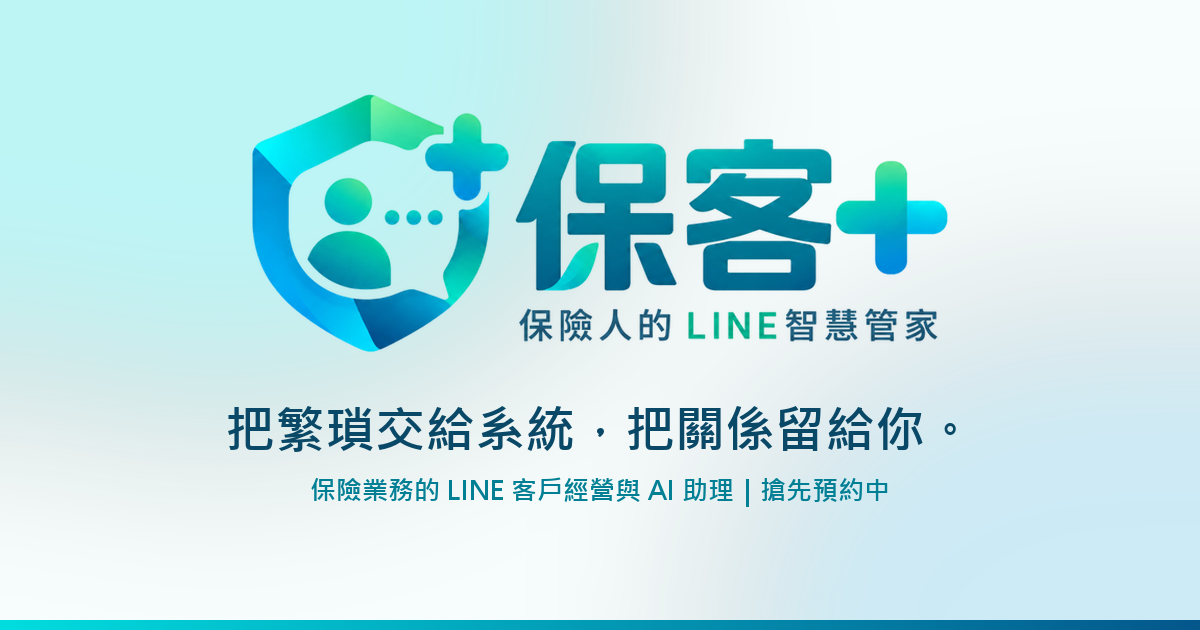
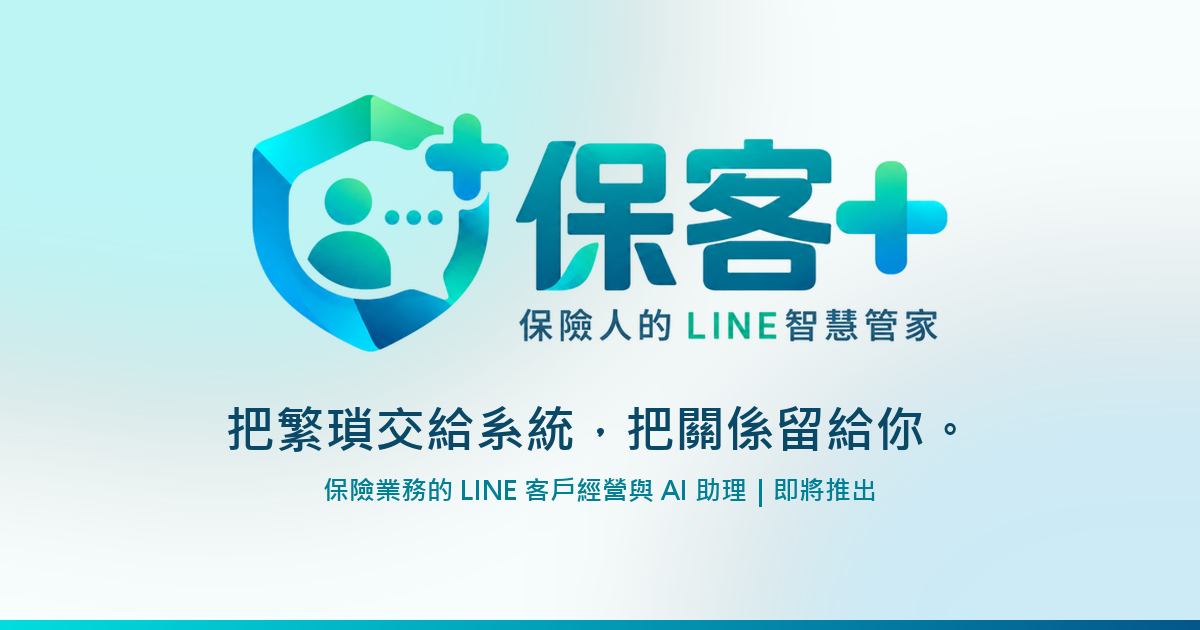
/insurcrm 定案調整：不收錄、正式價格、預約按鈕改為即將開放
- 副標定案「保險人的 LINE 智慧管家」，移除待確認註解
- 先不讓搜尋引擎收錄：metadata 加 robots noindex/nofollow；sitemap 與 pageUpdatedAt 移除 /insurcrm
- NT$900／月為正式價格：拿掉「預計」「以正式上線公告為準」，FAQ 改直述；結構化資料 price 900、PreOrder 不變
- 搶先預約尚未開放：六個原連到 /contact 的按鈕與頁內導覽 CTA 改為不可點的
  ComingSoonCta（span、aria-disabled、虛線框＋時鐘、全頁同一句「搶先預約即將開放」）；
  LINE 詢問與「看完整功能」錨點保留；移除不再使用的 ctaHref／sourceFromPath
- 相關文案（hero 標籤、結尾說明、三步開通第一步、FAQ、分享圖副標）改為「即將推出／即將開放」

Changed region(s): [[0.2467, 0.754, 0.74, 0.8143]]

diff --git a/app/insurcrm/page.tsx b/app/insurcrm/page.tsx
@@ -35,7 +35,6 @@ import {
 import { JsonLd } from '@/components/JsonLd';
 import { pageMeta, absoluteUrl } from '@/lib/seo';
 import { breadcrumbLd, faqPageLd, ORGANIZATION_ID } from '@/lib/jsonld';
-import { ctaHref, sourceFromPath } from '@/lib/site-source';
 import { site } from '@/lib/data/site';
 import { cn } from '@/lib/utils';
 import {
@@ -70,22 +69,29 @@ import { FeatureTabs } from './_components/FeatureTabs';
 import { GreetingDemo } from './_components/GreetingDemo';
 import { PhoneCarousel } from './_components/PhoneCarousel';
 import { Faq } from './_components/Faq';
+import { ComingSoonCta } from './_components/ComingSoonCta';
 import './insurcrm.css';
 
-const DESCRIPTION = `${PRODUCT_NAME}，${PRODUCT_SUBTITLE}。${PRODUCT_TAGLINE}為保險業務、銀行理專與通訊處打造的 LINE 官方帳號客戶經營系統：家庭與保單整理、生日與農曆節日祝福一鍵確認、每日早報與 AI 業務助理，客戶不用下載 App。現正開放搶先預約。`;
+const DESCRIPTION = `${PRODUCT_NAME}，${PRODUCT_SUBTITLE}。${PRODUCT_TAGLINE}為保險業務、銀行理專與通訊處打造的 LINE 官方帳號客戶經營系統：家庭與保單整理、生日與農曆節日祝福一鍵確認、每日早報與 AI 業務助理，客戶不用下載 App。`;
 
-export const metadata: Metadata = pageMeta({
+export const metadata: Metadata = {
+  ...pageMeta({
   path: PAGE_PATH,
   title: `${PRODUCT_NAME}｜${PRODUCT_SUBTITLE}`,
   description: DESCRIPTION,
   // 分享圖：由 logo 原檔以程式合成（淺色底＋logo＋標語），不是全站共用的 og.jpg
   ogImage: OG_IMAGE_PATH,
   keywords: [PRODUCT_NAME, '保險業務 CRM', '保險 LINE 官方帳號', '保險客戶管理', '保單整理', '農曆生日祝福', '理專 客戶管理', 'AI 業務助理', '通訊處 管理系統']
-});
+}),
+  // 產品未上線、預約未開放：先不讓搜尋引擎收錄（也不在 sitemap）。上線時拿掉這一段並把 /insurcrm 加回 app/sitemap.ts
+  robots: { index: false, follow: false }
+};
 
-/** 站內來源標記：src=insurcrm，pos=按鈕位置（見 lib/site-source.ts，刻意不用 utm_*） */
-const SRC = sourceFromPath(PAGE_PATH);
-const cta = (pos: string) => ctaHref('/contact', SRC, pos);
+/*
+ * 搶先預約尚未開放（2026-09-27 Shark）：所有預約按鈕都是不可點的 ComingSoonCta。
+ * 開放時換回連結：ctaHref('/contact', sourceFromPath(PAGE_PATH), '<位置>')（lib/site-source.ts），
+ * 位置沿用 hero / section_nav / differentiators / plan_solo / plan_team / final_cta，名單會帶 src=insurcrm。
+ */
 
 const NAV = [
   { id: 'workflow', label: '一天的節奏' },
@@ -219,7 +225,7 @@ export default function InsurCrmPage() {
                 <span className="icrm-pulse-ring absolute inset-0 rounded-full bg-[#1AC6C8]" aria-hidden />
                 <span className="relative inline-flex h-2 w-2 rounded-full bg-[#1E97A6]" />
               </span>
-              搶先預約中．功能分階段推出
+              即將推出．功能分階段上線
             </span>
             {/* Logo 原檔已含產品名與副標；背景是淺色 hero，去白底後的 PNG 直接放，不會有白框 */}
             <div className="mt-7" data-reveal style={{ '--d': '60ms' } as React.CSSProperties}>
@@ -244,10 +250,7 @@ export default function InsurCrmPage() {
               LINE 裡聽你說話的 AI 業務助理。
             </p>
             <div className="mt-8 flex flex-wrap items-center gap-3" data-reveal style={{ '--d': '280ms' } as React.CSSProperties}>
-              <a href={cta('hero')} className="btn-brand px-7 py-3.5 text-base">
-                申請搶先試用
-                <ArrowRight className="h-4 w-4" aria-hidden />
-              </a>
+              <ComingSoonCta size="lg" />
               <a href="#features" className="btn-outline px-7 py-3.5 text-base">
                 看完整功能
               </a>
@@ -295,8 +298,6 @@ export default function InsurCrmPage() {
 
       <SectionNav
         links={NAV}
-        ctaHref={cta('section_nav')}
-        ctaLabel="搶先試用"
         mark={{ ...LOGO_MARK, alt: PRODUCT_NAME }}
       />
 
@@ -541,10 +542,7 @@ export default function InsurCrmPage() {
             <p className="body-lg mt-5">
               我們從台灣業務的日常出發：客戶不想多裝一個 App，長輩過農曆生日，而每一則訊息都代表你本人。
             </p>
-            <a href={cta('differentiators')} className="btn-brand mt-8">
-              申請搶先試用
-              <ArrowRight className="h-4 w-4" aria-hidden />
-            </a>
+            <ComingSoonCta className="mt-8" />
           </div>
           <div className="grid gap-4 sm:grid-cols-2">
             {differentiators.map((d, k) => {
@@ -649,18 +647,12 @@ export default function InsurCrmPage() {
                     </li>
                   ))}
                 </ul>
-                <a
-                  href={cta(`plan_${p.id}`)}
-                  className={cn('mt-8 w-full', p.highlight ? 'btn-brand' : 'btn-outline')}
-                >
-                  {p.cta}
-                  <ArrowRight className="h-4 w-4" aria-hidden />
-                </a>
+                <ComingSoonCta label={p.cta} className="mt-8 w-full" />
               </div>
             ))}
           </div>
           <p className="mx-auto mt-6 max-w-3xl text-center text-xs leading-relaxed text-ink-500" data-reveal>
-            目前開放搶先預約，不收取任何預約費用。LINE 官方帳號的訊息費用依你的官方帳號方案由 LINE 計收，不含在月費內。
+            搶先預約即將開放。LINE 官方帳號的訊息費用依你的官方帳號方案由 LINE 計收，不含在月費內。
           </p>
         </div>
       </section>
@@ -777,13 +769,10 @@ export default function InsurCrmPage() {
                 {PRODUCT_TAGLINE.split('，')[1]}
               </h2>
               <p className="body-lg mx-auto mt-5 max-w-2xl text-balance text-brand-100">
-                {PRODUCT_NAME}，{PRODUCT_SUBTITLE}，現正開放搶先預約。留下聯絡方式，上線時優先通知你並安排試用。
+                {PRODUCT_NAME}，{PRODUCT_SUBTITLE}。搶先預約即將開放，想先了解可以直接用 LINE 問我們。
               </p>
               <div className="mt-9 flex flex-wrap items-center justify-center gap-3">
-                <a href={cta('final_cta')} className="btn bg-white px-7 py-3.5 text-base text-brand-900 hover:-translate-y-0.5 hover:bg-brand-50">
-                  申請搶先試用
-                  <ArrowRight className="h-4 w-4" aria-hidden />
-                </a>
+                <ComingSoonCta tone="dark" size="lg" />
                 <a href={site.contact.lineUrl} target="_blank" rel="noopener" className="btn-line px-7 py-3.5 text-base">
                   <MessageCircle className="h-4 w-4" aria-hidden />
                   用 LINE 詢問

diff --git a/app/insurcrm/_data/content.ts b/app/insurcrm/_data/content.ts
@@ -9,7 +9,8 @@
  *  - 不寫「保證」「穩賺」「最高」「第一」「唯一」這類絕對用語。
  *  - 不提及、不比較任何同業產品名稱。
  *  - 不暗示提供商品推薦或投資建議；缺口分析只說「規則式、不列商品」。
- *  - 2026-09 時點**所有功能都還沒上線**：每一項都要帶 phase，畫面以「搶先預約」為主，
+ *  - 2026-09 時點**所有功能都還沒上線、搶先預約也還沒開放**：每一項都要帶 phase；預約按鈕一律是
+ *    不可點的「搶先預約即將開放」（_components/ComingSoonCta），開放時把它換回連到 /contact 的連結，
  *    不可以寫成「已經有」。上線一項就把那一項的 phase 改成 'live'，再回頭改 FAQ 與 hero 的說法。
  *  - 功能與界線的來源是 line-crm-saas `docs/specs/insurance-agent-module.md`（§0、§5、§10、§12、§13、§14、§6）。
  */
@@ -17,10 +18,7 @@
 /** 品牌（2026-09-27 Shark 定案）。名稱、副標、標語各一個常數，改一處即全頁、metadata、結構化資料同步 */
 export const PRODUCT_NAME = '保客+';
 export const PRODUCT_SHORT = PRODUCT_NAME;
-/**
- * 副標：與 Logo 上的字一致。Shark 打字時曾寫成「保經人的 LINE智慧管家」，兩者不同，待確認；
- * 確認前以 Logo 為準（Logo 圖檔改不了，文字常數跟著圖走才不會畫面上兩種寫法並存）。
- */
+/** 副標：與 Logo 上的字一致 */
 export const PRODUCT_SUBTITLE = '保險人的 LINE 智慧管家';
 export const PRODUCT_TAGLINE = '把繁瑣交給系統，把關係留給你。';
 /** Logo 素材（由原始 PNG 以程式去白底／裁切，見 public/insurcrm/） */
@@ -29,7 +27,7 @@ export const LOGO_MARK = { src: '/insurcrm/baoke-plus-mark.png', width: 251, hei
 export const OG_IMAGE_PATH = '/insurcrm/og-baoke-plus.png';
 export const PAGE_PATH = '/insurcrm';
 
-/** 個人版月費（預計）。價格定案由 billing-ops 決定，改這裡會同步到方案卡、FAQ 與結構化資料 */
+/** 個人版月費（2026-09-27 Shark 定案為正式價格）。改這裡會同步到方案卡、數字區、FAQ 與結構化資料 */
 export const SOLO_PRICE = 900;
 
 export type Phase = 1 | 2 | 3;
@@ -79,7 +77,7 @@ export const facts: { value: number; prefix?: string; suffix?: string; label: st
   { value: 0, suffix: ' 個', label: '客戶要下載的 App', note: '保單總表、祝福、聯絡業務，都在 LINE 裡完成' },
   { value: 6, suffix: ' 個', label: '農曆節日自動換算', note: '春節、元宵、端午、七夕、中秋、重陽，另支援農曆生日' },
   { value: 3, suffix: ' 種', label: '職業別範本', note: '保險業務、銀行理專、獨立理財顧問各有祝福與提醒範本' },
-  { value: SOLO_PRICE, prefix: 'NT$', label: '個人版每月（預計）', note: '自助線上開通，價格以正式上線公告為準' }
+  { value: SOLO_PRICE, prefix: 'NT$', label: '個人版每月', note: '自助線上開通，一個人就能開始用' }
 ];
 
 /* ── 核心功能分頁 ─────────────────────────────────────── */
@@ -306,9 +304,9 @@ export const plans = [
     name: '個人版',
     audience: '保險業務員、銀行理專、獨立理財顧問本人',
     price: SOLO_PRICE,
-    priceNote: '每月（預計），價格以正式上線公告為準',
+    priceNote: '每月，線上自助開通',
     highlight: true,
-    cta: '預約個人版',
+    cta: '個人版',
     points: [
       '使用你自己的 LINE 官方帳號，既有好友直接保留',
       '線上自助開通，LINE 設定精靈一步步帶你完成',
@@ -324,7 +322,7 @@ export const plans = [
     price: null as number | null,
     priceNote: '依團隊規模與導入範圍報價',
     highlight: false,
-    cta: '洽詢團隊版',
+    cta: '團隊版',
     points: [
       '團隊共用一個官方帳號，訊息顯示業務本人名字與頭像',
       '業務、組長、區經理、處經理多層組織與資料可見範圍',
@@ -337,7 +335,7 @@ export const plans = [
 
 /* ── 三步開通 ───────────────────────────────────────── */
 export const onboardingSteps = [
-  { title: '申請搶先試用', body: '留下聯絡方式，我們在上線時優先通知你，並安排試用。' },
+  { title: '搶先預約', body: '預約即將開放。預約後，上線時我們會優先通知你並安排試用。' },
   { title: '接上你的 LINE 官方帳號', body: '設定精靈一步步帶你完成；已經在經營的官方帳號可以直接接，好友不用搬。' },
   { title: '匯入客戶，開始經營', body: '從 Excel 匯入客戶名單或手動建立，隔天早上就會收到早報。' }
 ];
@@ -380,7 +378,7 @@ export const complianceItems: { title: string; body: string; icon: 'heart-off' |
 export const faqs: { q: string; a: string }[] = [
   {
     q: '現在可以開始使用了嗎？',
-    a: `${PRODUCT_NAME} 目前開放搶先預約，功能會分階段推出。首波包含客戶與家庭、保單整理、保障總表、提醒與行事曆、每日早報、生日節日祝福與客戶在 LINE 看保單；AI 個人助理於第二階段加入。預約後我們會在上線時優先通知你並安排試用。`
+    a: `${PRODUCT_NAME} 尚未上線，功能會分階段推出。首波包含客戶與家庭、保單整理、保障總表、提醒與行事曆、每日早報、生日節日祝福與客戶在 LINE 看保單；AI 個人助理於第二階段加入。搶先預約即將開放，想先了解可以用 LINE 詢問我們。`
   },
   {
     q: '我的客戶需要下載 App 嗎？',
@@ -416,6 +414,6 @@ export const faqs: { q: string; a: string }[] = [
   },
   {
     q: '費用怎麼計算？',
-    a: `個人版預計每月 NT$${SOLO_PRICE.toLocaleString('en-US')}，團隊版依團隊規模與導入範圍報價。價格以正式上線公告為準，目前不收任何預約費用。`
+    a: `個人版每月 NT$${SOLO_PRICE.toLocaleString('en-US')}；團隊版依規模報價。LINE 官方帳號的訊息費用依你的官方帳號方案由 LINE 計收，不含在月費內。`
   }
 ];

diff --git a/app/insurcrm/_components/SectionNav.tsx b/app/insurcrm/_components/SectionNav.tsx
@@ -2,8 +2,8 @@
 
 import { useEffect, useRef, useState } from 'react';
 import Image from 'next/image';
-import { ArrowRight } from 'lucide-react';
 import { cn } from '@/lib/utils';
+import { ComingSoonCta } from './ComingSoonCta';
 
 export type NavLink = { id: string; label: string };
 
@@ -14,13 +14,9 @@ export type NavLink = { id: string; label: string };
  */
 export function SectionNav({
   links,
-  ctaHref,
-  ctaLabel,
   mark
 }: {
   links: NavLink[];
-  ctaHref: string;
-  ctaLabel: string;
   /** 黏住後左側顯示的品牌圖示（盾牌），讓捲到頁中段仍認得這是哪個產品 */
   mark?: { src: string; width: number; height: number; alt: string };
 }) {
@@ -126,18 +122,10 @@ export function SectionNav({
               </a>
             ))}
           </div>
-          <a
-            href={ctaHref}
-            className={cn(
-              'hidden shrink-0 items-center gap-1.5 rounded-full bg-brand-800 px-4 py-2 text-sm font-semibold text-white transition-all duration-300 hover:bg-brand-700 sm:inline-flex',
-              stuck ? 'opacity-100' : 'pointer-events-none opacity-0'
-            )}
-            tabIndex={stuck ? 0 : -1}
-            aria-hidden={!stuck}
-          >
-            {ctaLabel}
-            <ArrowRight className="h-4 w-4" aria-hidden />
-          </a>
+          {/* 預約未開放：不可點的狀態，只在黏住後出現，避免首屏重複 */}
+          <span className={cn('hidden shrink-0 transition-opacity duration-300 sm:inline-flex', stuck ? 'opacity-100' : 'opacity-0')} aria-hidden={!stuck}>
+            <ComingSoonCta size="sm" />
+          </span>
         </div>
       </nav>
     </>

diff --git a/app/insurcrm/_components/ComingSoonCta.tsx b/app/insurcrm/_components/ComingSoonCta.tsx
@@ -1,0 +1,43 @@
+import { Clock } from 'lucide-react';
+import { cn } from '@/lib/utils';
+
+export const COMING_SOON_LABEL = '搶先預約即將開放';
+
+/**
+ * 「搶先預約」還沒開放時的按鈕位置（2026-09-27 Shark：先不做連結）。
+ *
+ * 刻意用 <span> 而不是 <a href="#"> 或 disabled <button>：沒有目的地的東西就不該可以點、
+ * 也不該在 Tab 順序裡。外觀保留按鈕的形狀（讓版面不塌），但用虛線框與時鐘圖示表達「還沒到」，
+ * 全頁一致用同一句 COMING_SOON_LABEL。預約開放時，把呼叫端換回 ctaHref('/contact', …) 的連結即可。
+ */
+export function ComingSoonCta({
+  tone = 'light',
+  size = 'md',
+  label,
+  className
+}: {
+  tone?: 'light' | 'dark';
+  size?: 'sm' | 'md' | 'lg';
+  /** 方案卡用：前面加方案名，例如「個人版．搶先預約即將開放」 */
+  label?: string;
+  className?: string;
+}) {
+  return (
+    <span
+      aria-disabled="true"
+      className={cn(
+        'inline-flex cursor-default select-none items-center justify-center gap-2 whitespace-nowrap rounded-full border border-dashed font-semibold',
+        size === 'sm' && 'px-4 py-2 text-sm',
+        size === 'md' && 'px-6 py-3 text-sm',
+        size === 'lg' && 'px-7 py-3.5 text-base',
+        tone === 'light'
+          ? 'border-brand-300 bg-brand-50 text-brand-800'
+          : 'border-white/40 bg-white/10 text-white',
+        className
+      )}
+    >
+      <Clock className="h-4 w-4 shrink-0" aria-hidden />
+      {label ? `${label}．${COMING_SOON_LABEL}` : COMING_SOON_LABEL}
+    </span>
+  );
+}

diff --git a/app/sitemap.ts b/app/sitemap.ts
@@ -17,9 +17,7 @@ export default function sitemap(): MetadataRoute.Sitemap {
   const staticPages = [
     '', '/solutions', '/about', '/pricing', '/cases', '/blog', '/contact',
     '/services/line-marketing', '/services/smart-card', '/services/custom-modules',
-    '/privacy',
-    // 保險業務 CRM 落地頁（2026-09-27 起，產品搶先預約中）
-    '/insurcrm'
+    '/privacy'
   ].map((p) => ({
     url: `${base}${p}`,
     lastModified: at(pageUpdatedAt[p]),

diff --git a/lib/data/site.ts b/lib/data/site.ts
@@ -97,8 +97,7 @@ export const pageUpdatedAt: Record<string, string> = {
   '/privacy': '2026-09-06',
   '/services/line-marketing': '2026-08-28',
   '/services/smart-card': '2026-08-28',
-  '/services/custom-modules': '2026-08-28',
-  '/insurcrm': '2026-09-27'
+  '/services/custom-modules': '2026-08-28'
 };
 
 export const externalSites = [
